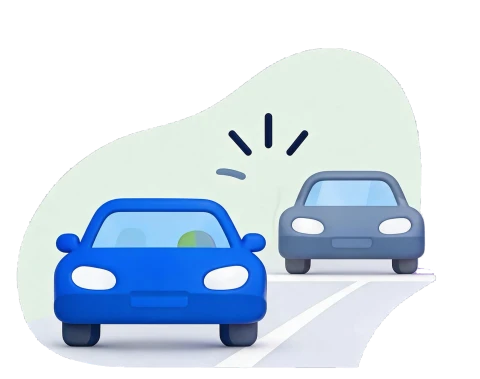
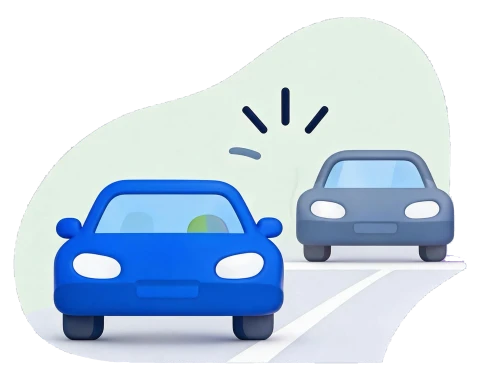
Öğretmen uygulaması yeni tasarım altyapısı: js/usta yönlendirici, ox üst çubuk, dört sekme; öğretmen çizimleri (araç, güzergâh, cüzdan)
- portal.js: öğretmen iş mantığı dışa açıldı (dersBaslat ayrı işlev), usta kendi telefonunda yeni yönlendiriciye sorulur
- ui.js: öğretmen simgeleri, sekmeCubugu öğretmen listesini alır, GORSEL_SURUM 3

diff --git a/js/portal.js b/js/portal.js
@@ -22,6 +22,7 @@ import { MUFREDAT } from './ogrenci.js?v=206';
 import * as TK from './takvim.js?v=206';
 import * as OGR from './ogren.js?v=206';
 import * as OX from './ogr/ekran.js?v=206';
+import * as UX from './usta/ekran.js?v=206';
 
 let egId = 'e1', egSekme = 'bugun';
 let ogId = null, ogSekme = (() => { try { return sessionStorage.getItem('sinyal-og-sekme') || 'durum'; } catch (x) { return 'durum'; } })();
@@ -33,29 +34,29 @@ const sekmeCubugu = (liste, secili, ad) => `<nav class="portal-sekme" aria-label
 const beceriGiris = () => `<p class="et">Bu dersin beceri puanı <small style="font-weight:400;color:var(--soluk)">1 zayıf · 5 sınava hazır</small></p><div class="beceri-giris">${BECERI.map(([b, ad]) => `<div class="beceri-sat"><span>${ad}</span><div class="secim">${[1, 2, 3, 4, 5].map(n => `<label><input type="radio" name="b-${b}" value="${n}"><span>${n}</span></label>`).join('')}</div></div>`).join('')}</div>`;
 // Takip formuna yazılacak konular (zorunlu alan): sıradaki ders için öneri işaretli gelir
 const konuGiris = (ks, no) => { const on = konuOner(ks.sinif, no, SINIFLAR[ks.sinif].direksiyon); return `<p class="et" style="margin-top:4px">Bu derste çalışılan konular <small style="font-weight:400;color:var(--soluk)">takip formuna yazılır</small></p><div class="secim konu-sec">${konuListesi(ks.sinif).map(([id, ad]) => `<label><input type="checkbox" name="konu" value="${id}" ${on.includes(id) ? 'checked' : ''}><span>${ad}</span></label>`).join('')}</div>`; };
-const konuOku = p => [...p.querySelectorAll('[name=konu]:checked')].map(x => x.value);
-const beceriOku = p => { const o = {}; BECERI.forEach(([b]) => { const v = p.querySelector(`[name="b-${b}"]:checked`); if (v) o[b] = +v.value; }); return Object.keys(o).length ? o : null; };
+export const konuOku = p => [...p.querySelectorAll('[name=konu]:checked')].map(x => x.value);
+export const beceriOku = p => { const o = {}; BECERI.forEach(([b]) => { const v = p.querySelector(`[name="b-${b}"]:checked`); if (v) o[b] = +v.value; }); return Object.keys(o).length ? o : null; };
 // Ders sonu: beceri puanı kaydedilir; kalma riski "yüksek"e çıkarsa müdüre haber gider
-function riskKontrol(ks, once) {
+export function riskKontrol(ks, once) {
   const r = risk(ks); if (!r || r.puan < 50 || (once && once.puan >= 50)) return;
   bildirimler([{ kim: 'mudur', metin: `${tamAd(ks)} için uygulama sınavı kalma riski yüksek (${r.puan}/100): ${r.nedenler.join('; ')}. Ek ders önermek için kursiyer dosyasını açın.`, tur: 'Sınav riski' }], 'Sınav riski yükseldi');
 }
 // Ders konumu: başlangıçta ve bitişte alınır; ekran açık kaldıkça 4 dakikada bir iz noktası düşer (web uygulaması arka planda konum alamaz)
 let izleyici = null;
-const konumOku = p => ({ enlem: +p.coords.latitude.toFixed(5), boylam: +p.coords.longitude.toFixed(5), dogruluk: Math.round(p.coords.accuracy) });
-function izBaslat(d) {
+export const konumOku = p => ({ enlem: +p.coords.latitude.toFixed(5), boylam: +p.coords.longitude.toFixed(5), dogruluk: Math.round(p.coords.accuracy) });
+export function izBaslat(d) {
   if (!navigator.geolocation || izleyici != null) return;
   let son = 0;
   izleyici = navigator.geolocation.watchPosition(p => { if (Date.now() - son < 4 * 60e3 || d.durum !== 'Planlandı') return; son = Date.now(); const k = konumOku(p); (d.iz = d.iz || []).push([new Date().toTimeString().slice(0, 5), k.enlem, k.boylam]); if (d.iz.length > 40) d.iz.shift(); kaydet(); }, () => { }, { maximumAge: 60e3 });
 }
-function izBitir(d) {
+export function izBitir(d) {
   if (izleyici != null && navigator.geolocation) navigator.geolocation.clearWatch(izleyici);
   izleyici = null;
   if (navigator.geolocation) navigator.geolocation.getCurrentPosition(p => { d.konumBit = konumOku(p); kaydet(); }, () => { d.konumBit = false; kaydet(); }, { timeout: 15000, maximumAge: 60e3 });
 }
 // Dersi bitirme: 3 adım (konular → değerlendirme → imzalar). Öğrenci yanında değilse imza WhatsApp'tan istenir.
 // Geçmiş günden kapanmamış ders de buradan kapatılır (başlangıç saati yoksa süre boş kalır, "sonradan kapatıldı" işaretlenir).
-function dersKapat(d) {
+export function dersKapat(d) {
   const ks = kursiyer(d.kursiyer), no = ks.direksiyon + 1, h = egitmen(d.egitmen), gecmis = d.tarih < gun(0);
   pencere({
     baslik: 'Dersi bitir', korumali: true,
@@ -107,8 +108,8 @@ function dersKapat(d) {
   });
 }
 // Ders iptali (öğretmen tarafı): ders silinir, öğrenciye ve kurs müdürüne nedeniyle bildirilir; boşalan saati müdür doldurur
-const IPTAL_NEDEN = [['ogrenci', 'Öğrenci gelemeyeceğini bildirdi'], ['arac', 'Araç arızalı'], ['hava', 'Hava koşulları uygun değil'], ['ben', 'Ben gelemiyorum'], ['diger', 'Diğer']];
-function dersIptal(d) {
+export const IPTAL_NEDEN = [['ogrenci', 'Öğrenci gelemeyeceğini bildirdi'], ['arac', 'Araç arızalı'], ['hava', 'Hava koşulları uygun değil'], ['ben', 'Ben gelemiyorum'], ['diger', 'Diğer']];
+export function dersIptal(d) {
   const ks = kursiyer(d.kursiyer), h = egitmen(d.egitmen);
   pencere({
     baslik: 'Ders iptal edilsin mi?',
@@ -129,7 +130,7 @@ function dersIptal(d) {
   });
 }
 // "Gelmedi" yanlışlıkla basılmasın: onay alınır, sonra öğrenciye ve müdüre haber gider
-function gelmediIsaretle(d) {
+export function gelmediIsaretle(d) {
   if (!d) return;
   if (dersKalanSaat(d) > 0) return bildir('Ders saati gelmeden “gelmedi” işaretlenemez', 'uyari');
   const ks = kursiyer(d.kursiyer), h = egitmen(d.egitmen);
@@ -145,7 +146,7 @@ function gelmediIsaretle(d) {
     },
   });
 }
-function dersDiger(d) {
+export function dersDiger(d) {
   const ks = kursiyer(d.kursiyer);
   pencere({
     baslik: tamAd(ks), icerik: `<div class="eg-menu">
@@ -162,6 +163,16 @@ function dersDiger(d) {
       });
     },
   });
+}
+// Dersi başlat: yalnız bugünkü ders, aynı anda tek ders; başlangıç saati ve konum kaydedilir (eski ve yeni öğretmen ekranı birlikte kullanır)
+export function dersBaslat(d, eg) {
+  if (!d) return;
+  if (d.tarih !== gun(0)) return bildir('Yalnız bugünkü ders başlatılabilir', 'uyari');
+  if (S.dersler.some(x => x !== d && x.egitmen === eg.id && x.tarih === gun(0) && x.durum === 'Planlandı' && x.bas)) return bildir('Önce başlattığın dersi bitir', 'uyari');
+  d.bas = new Date().toTimeString().slice(0, 5); d.basZaman = Date.now(); d.konum = null; islem('Dersi başlattı', tamAd(kursiyer(d.kursiyer)) + ' · ' + d.bas); kaydet(); yenile();
+  if (!navigator.geolocation) return bildir('Ders başladı; bu cihaz konum vermiyor', 'uyari');
+  izBaslat(d);
+  navigator.geolocation.getCurrentPosition(p => { d.konum = konumOku(p); kaydet(); bildir('Ders başladı; başlangıç saati ve konum kaydedildi'); yenile(); }, () => { d.konum = false; kaydet(); bildir('Ders başladı; süre kendiliğinden yazılacak'); yenile(); }, { timeout: 10000, maximumAge: 60000 });
 }
 const DURUM_TON = { 'Yapıldı': 'yesil', 'Gelmedi': 'kirmizi', 'İptal': 'notr' };
 // Günün saatine göre selam (öğretmen ve öğrenci ekranının başlığı)
@@ -227,7 +238,7 @@ const AV_RENK = ['#2f6fde', '#c2410c', '#0f8a5f', '#7a5cd6', '#b4233a', '#0e7490
 const avDaire = (k, cls = '') => k.foto ? `<img class="u-av ${cls}" src="${e(k.foto)}" alt="">` : `<span class="u-av ${cls}" style="--r:${AV_RENK[[...((k.ad || '') + (k.soyad || ''))].reduce((a, c) => a + c.charCodeAt(0), 0) % AV_RENK.length]}" aria-hidden="true">${e(((k.ad || '?')[0] + ((k.soyad || '')[0] || '')).toLocaleUpperCase('tr'))}</span>`;
 // sayfa üstü rengi: üst bölüm varsa telefonun durum çubuğu da lacivert olur
 const temaUst = koyu => { if (koyu) heroBoyutla(); if (koyu && window.matchMedia && matchMedia('(prefers-reduced-motion: reduce)').matches) document.querySelectorAll('svg.u-gece').forEach(g => { try { g.pauseAnimations(); } catch (x) { } }); document.body.classList.toggle('hero-acik', koyu); document.body.classList.toggle('hero-gunduz', koyu && gunduzMu()); const m = document.querySelector('meta[name="theme-color"]'); if (m) m.content = koyu ? (gunduzMu() ? '#174f99' : '#0b1830') : '#f2f2f7'; };
-const dersNo = (d, k) => dersSirasi(d, k) || k.direksiyon;
+export const dersNo = (d, k) => dersSirasi(d, k) || k.direksiyon;
 // Sıradaki (ya da sürmekte olan) ders: üst bölüme taşan büyük kart, tek ana düğme
 function egSiraKart(d) {
   const k = kursiyer(d.kursiyer); if (!k) return '';
@@ -252,7 +263,7 @@ function egSatir(d, siradaki) {
     <span class="u-satir-govde"><b>${e(tamAd(k))}</b><small>${acik ? no + '. ders' : no + ' ders'} · ${e(S0.ad)}${d.durum === 'Yapıldı' && d.sure != null ? ' · ' + d.sure + ' dk' + (d.sure < 40 ? ' (kısa)' : '') : ''}</small>${imzaBek ? `<small class="uyari">İmza bekleniyor · <button class="u-bag" data-imza-tekrar="${e(d.id)}">linki yeniden gönder</button></small>` : ''}</span>${sag}${acik && !gecmis ? `<button class="u-nokta" data-ders-diger="${e(d.id)}" aria-label="${e(tamAd(k))} için diğer işlemler">${ik('nokta')}</button>` : ''}</div>`;
 }
 // Öğrenci ayrıntısı (öğretmen): alttan açılan sayfa
-function egOgrAc(k) {
+export function egOgrAc(k) {
   const S0 = SINIFLAR[k.sinif], sd = sonrakiDers(k), dd = (k.dDeneme || []).slice(-1)[0], r = risk(k), tel = (k.tel || '').replace(/\s/g, '');
   const sat = (ikon, ton, b, s2) => `<div class="u-satir"><span class="u-ik ${ton}">${ik(ikon)}</span><span class="u-satir-govde"><b>${b}</b>${s2 ? `<small>${s2}</small>` : ''}</span></div>`;
   pencere({ baslik: 'Öğrenci', alt: true, icerik: `<div class="u-ogr-ust">${avDaire(k, 'buyuk')}<div><b>${e(tamAd(k))}</b><small>${e(S0.ad)} · ${e(k.asama)}</small></div></div>
@@ -281,9 +292,9 @@ function progAralik() {
   const [a1, b1] = [tarihOku(gunler[0]), tarihOku(gunler[6])];
   return { gunler, metin: a1.getMonth() === b1.getMonth() ? `${a1.getDate()}–${b1.getDate()} ${AY_U[b1.getMonth()]}` : `${a1.getDate()} ${AY_U[a1.getMonth()]} – ${b1.getDate()} ${AY_U[b1.getMonth()]}` };
 }
-const progDurum = d => d.durum === 'Planlandı' ? (d.tarih < gun(0) ? ['Kapanmadı', 'turuncu'] : d.bas ? ['Derste', 'mavi'] : ['Planlı', '']) : d.durum === 'Yapıldı' ? ['Yapıldı', 'yesil'] : d.durum === 'Gelmedi' ? ['Gelmedi', 'kirmizi'] : [d.durum, ''];
+export const progDurum = d => d.durum === 'Planlandı' ? (d.tarih < gun(0) ? ['Kapanmadı', 'turuncu'] : d.bas ? ['Derste', 'mavi'] : ['Planlı', '']) : d.durum === 'Yapıldı' ? ['Yapıldı', 'yesil'] : d.durum === 'Gelmedi' ? ['Gelmedi', 'kirmizi'] : [d.durum, ''];
 // Programı Excel'e: gösterilen dönemin dersleri (telefon ve kimlik bilgisi yok)
-async function progIndir(eg) {
+export async function progIndir(eg) {
   const { gunler, metin } = progAralik(), set = new Set(gunler);
   const l = S.dersler.filter(d => d.egitmen === eg.id && set.has(d.tarih)).sort((a, b) => (a.tarih + a.saat).localeCompare(b.tarih + b.saat));
   if (!l.length) return bildir('Bu dönemde ders yok', 'uyari');
@@ -307,6 +318,7 @@ export function egitmenPortal() {
   if (!eg) return { baslik: 'Öğretmen ekranı', alt: 'Telefondan kullanılan ekran', html: `<div class="portal portal-og"><div class="u-bos">${ik('kursiyer')}<b>${usta ? 'Hesabın bir öğretmen kaydına bağlı değil' : 'Henüz öğretmen yok'}</b><p>${usta ? 'Kurs müdürü Ayarlar › Kullanıcılar’dan seni yeniden davet etmeli.' : 'Filo › Öğretmenler’den öğretmen ekleyince ders ekranı burada görünür.'}</p></div></div>` };
   egId = eg.id;
   if (!EG_SEKME.some(x => x[0] === egSekme)) egSekme = 'bugun';
+  if (usta) { const y = UX.ciz(eg, { yenile, temaUst }); if (y) return y; }
   const benim = S.dersler.filter(d => d.egitmen === eg.id);
   const bugun = benim.filter(d => d.tarih === gun(0)).sort((a, b) => a.saat.localeCompare(b.saat));
   const kapanmamis = benim.filter(d => d.durum === 'Planlandı' && d.tarih < gun(0) && d.tarih >= gun(-60)).sort((a, b) => (a.tarih + a.saat).localeCompare(b.tarih + b.saat));
@@ -367,6 +379,7 @@ export function egitmenPortal() {
       ${hero}<div class="portal portal-og ${hero ? 'hero-alti' : ''}">${govde}</div>
       <nav class="og-sekme" aria-label="Öğretmen ekranı">${EG_SEKME.map(([kk, t, i]) => `<button data-egs="${kk}" class="${kk === egSekme ? 'secili' : ''}" ${kk === egSekme ? 'aria-current="page"' : ''}>${ik(i)}<span>${t}${kk === 'bugun' && kapanmamis.length ? ' <em>' + kapanmamis.length + '</em>' : ''}</span></button>`).join('')}</nav>`,
     baglan(k) {
+      document.body.classList.remove('ox-modu', 'ox-tam-acik');
       if (usta) temaUst(!!hero);
       k.addEventListener('change', ev => { if (ev.target.matches('[data-eg]')) { egId = ev.target.value; yenile(); } });
       k.addEventListener('input', ev => { if (ev.target.matches('[data-ogr-ara]')) { egAra = ev.target.value; araSuz(k); } });
@@ -379,16 +392,7 @@ export function egitmenPortal() {
         const pg = t.closest('[data-prog-git]'); if (pg) { egProg.kay = +pg.dataset.progGit ? egProg.kay + +pg.dataset.progGit : 0; return yenile(); }
         if (t.closest('[data-prog-indir]')) return progIndir(eg);
         if (t.closest('[data-ara-sil]')) { egAra = ''; const i = k.querySelector('[data-ogr-ara]'); i.value = ''; araSuz(k); return i.focus(); }
-        const db = t.closest('[data-ders-basla]'); if (db) {
-          const d = S.dersler.find(x => x.id === db.dataset.dersBasla);
-          if (d.tarih !== gun(0)) return bildir('Yalnız bugünkü ders başlatılabilir', 'uyari');
-          if (benim.some(x => x !== d && x.tarih === gun(0) && x.durum === 'Planlandı' && x.bas)) return bildir('Önce başlattığın dersi bitir', 'uyari');
-          d.bas = new Date().toTimeString().slice(0, 5); d.basZaman = Date.now(); d.konum = null; islem('Dersi başlattı', tamAd(kursiyer(d.kursiyer)) + ' · ' + d.bas); kaydet(); yenile();
-          if (!navigator.geolocation) return bildir('Ders başladı; bu cihaz konum vermiyor', 'uyari');
-          izBaslat(d);
-          navigator.geolocation.getCurrentPosition(p => { d.konum = konumOku(p); kaydet(); bildir('Ders başladı; başlangıç saati ve konum kaydedildi'); yenile(); }, () => { d.konum = false; kaydet(); bildir('Ders başladı; süre kendiliğinden yazılacak'); yenile(); }, { timeout: 10000, maximumAge: 60000 });
-          return;
-        }
+        const db = t.closest('[data-ders-basla]'); if (db) return dersBaslat(S.dersler.find(x => x.id === db.dataset.dersBasla), eg);
         const y = t.closest('[data-yapildi]'); if (y) return dersKapat(S.dersler.find(x => x.id === y.dataset.yapildi));
         const it = t.closest('[data-imza-tekrar]'); if (it) { const d = S.dersler.find(x => x.id === it.dataset.imzaTekrar); import('./imza.js?v=206').then(m => m.imzaIste('ders', kursiyer(d.kursiyer), [d.id])); return; }
         const g = t.closest('[data-gelmedi]'); if (g) return gelmediIsaretle(S.dersler.find(x => x.id === g.dataset.gelmedi));

diff --git a/js/usta/ekran.js b/js/usta/ekran.js
@@ -1,0 +1,89 @@
+// Öğretmen (usta öğretici) uygulaması yönlendiricisi (yeni tasarım). portal.js egitmenPortal() öğretmenin kendi telefonunda buraya sorar;
+// bir ekran modülü null dönerse eski düzen gösterilir. Tasarım dili öğrenci uygulamasıyla ortak: js/ogr/ui.js.
+//
+// Ekran modülleri: ekran(ctx) → { html, baglan?(kap), tam?: true, rozet? } | null
+//   tam: true → tam ekran akış (üst çubuk ve alt sekmeler gizli; örn. "Dersi bitir" adımları)
+// ctx: { eg, sekme, alt, benim, bugun, kapanmamis, siradaki, ar, ogrenciler, yenile(kaydir), git(sekme, alt?), altAc(alt), P }
+//   P: portal.js'teki öğretmen iş mantığı (dersBaslat, dersKapat, dersIptal, gelmediIsaretle, dersDiger, egOgrAc, progIndir, IPTAL_NEDEN,
+//      konuOku, beceriOku, dersNo, progDurum, riskKontrol, izBaslat, izBitir, konumOku). Mantığı kopyalama, buradan çağır.
+//
+// Ortak öznitelikler (her ekranda çalışır, modülün ayrıca bağlamasına gerek yok):
+//   data-egs="<sekme>"             alt sekme (bugun | hafta | kursiyer | kazanc); her zaman o sekmenin başına gider
+//   data-ux-git="<sekme>[:<alt>]"  başka sekmenin alt ekranına git (örn. "kursiyer:ogr:k12", "bugun:arac")
+//   data-ux-alt="<alt>"            bu sekmede alt ekran aç; data-ux-alt="" sekmenin başına döner
+//   data-ders-basla="<ders-id>"    dersi başlat;  data-yapildi="<id>" dersi bitir akışı;  data-gelmedi="<id>" gelmedi onayı
+//   data-ders-diger="<id>"         ders menüsü (ara, not, iptal, gelmedi);  data-ders-iptal="<id>" iptal
+//   data-imza-tekrar="<id>"        imza linkini yeniden gönder;  data-ogr-ac="<öğrenci-id>" öğrenci ayrıntısı;  data-prog-indir Excel
+import { S, gun, kursiyer, tamAd } from '../veri.js?v=206';
+import { sekmeCubugu, USTA_SEKMELER } from '../ogr/ui.js?v=206';
+import * as P from '../portal.js?v=206';
+import * as BGN from './bugun.js?v=206';
+import * as PRG from './program.js?v=206';
+import * as OGR from './ogrenciler.js?v=206';
+import * as KZN from './kazanc.js?v=206';
+import * as DRS from './ders.js?v=206';
+import * as ARC from './arac.js?v=206';
+
+const oku = (a, d) => { try { return sessionStorage.getItem(a) || d; } catch (x) { return d; } };
+const yaz = (a, v) => { try { if (v) sessionStorage.setItem(a, v); else sessionStorage.removeItem(a); } catch (x) { } };
+let sekme = oku('sinyal-eg-sekme', 'bugun'), alt = oku('sinyal-eg-alt', '');
+if (!USTA_SEKMELER.some(x => x[0] === sekme)) sekme = 'bugun';
+export const altAc = a => { alt = a || ''; yaz('sinyal-eg-alt', alt); };
+const sekmeAc = s => { sekme = s; yaz('sinyal-eg-sekme', s); };
+const MODUL = { bugun: BGN, hafta: PRG, kursiyer: OGR, kazanc: KZN };
+const ARAC_ALT = /^(arac|guzergah|hesap)(:|$)/;
+
+function veri(eg) {
+  const benim = S.dersler.filter(d => d.egitmen === eg.id);
+  const bugun = benim.filter(d => d.tarih === gun(0)).sort((a, b) => a.saat.localeCompare(b.saat));
+  const kapanmamis = benim.filter(d => d.durum === 'Planlandı' && d.tarih < gun(0) && d.tarih >= gun(-60)).sort((a, b) => (a.tarih + a.saat).localeCompare(b.tarih + b.saat));
+  const ASIRA = { Direksiyon: 0, 'Sınav': 1, Teorik: 2, Evrak: 3, 'Kayıt': 4 };
+  const ogrenciler = S.kursiyerler.filter(k => k.egitmen === eg.id && k.asama !== 'Ehliyet' && !k.kapali).sort((a, b) => (ASIRA[a.asama] ?? 9) - (ASIRA[b.asama] ?? 9) || tamAd(a).localeCompare(tamAd(b), 'tr'));
+  const siradaki = bugun.find(d => d.durum === 'Planlandı' && d.bas) || bugun.find(d => d.durum === 'Planlandı');
+  const ar = S.araclar.find(a => a.egitmen === eg.id);
+  return { benim, bugun, kapanmamis, ogrenciler, siradaki, ar };
+}
+
+function sec(ctx) {
+  if (DRS.aktif && DRS.aktif(ctx)) return DRS.ekran(ctx);
+  if (ARAC_ALT.test(ctx.alt)) return ARC.altEkran(ctx.alt, ctx);
+  const m = MODUL[ctx.sekme]; return m && m.ekran ? m.ekran(ctx) : null;
+}
+const bul = id => S.dersler.find(x => x.id === id);
+
+export function ciz(eg, dis) {
+  const ctx = {
+    eg, sekme, alt, P, ...veri(eg), yenile: dis.yenile,
+    altAc: a => { altAc(a); dis.yenile(true); },
+    git: (s, a) => { const deg = s !== sekme; sekmeAc(s); altAc(a !== undefined ? a : ''); if (deg || a === undefined) { const m = MODUL[s]; if (m && m.sifirla) m.sifirla(); } dis.yenile(true); },
+  };
+  let y = null;
+  try { y = sec(ctx); } catch (x) { console.error(x); y = null; }
+  if (!y) return null;
+  const rozet = { ...(ctx.kapanmamis.length ? { bugun: ctx.kapanmamis.length } : {}), ...(y.rozet || {}) };
+  return {
+    baslik: (USTA_SEKMELER.find(x => x[0] === sekme) || [])[1] || 'Bugün', alt: 'Öğretmen ekranı',
+    html: `<div class="ox ox-usta${y.tam ? ' ox-tam' : ''}" data-ux-sekme="${sekme}">${y.html}</div>${y.tam ? '' : sekmeCubugu(sekme, rozet, USTA_SEKMELER, 'data-egs')}`,
+    baglan(kap) {
+      document.body.classList.add('ox-modu');
+      document.body.classList.toggle('ox-tam-acik', !!y.tam);
+      document.body.classList.remove('hero-acik', 'hero-gunduz');
+      const m = document.querySelector('meta[name="theme-color"]'); if (m) m.content = y.tam ? '#ffffff' : '#f7f8fa';
+      kap.addEventListener('click', ev => {
+        const t = ev.target;
+        const s = t.closest('[data-egs]'); if (s) return ctx.git(s.dataset.egs);
+        const g = t.closest('[data-ux-git]'); if (g) { const [sk, ...a] = g.dataset.uxGit.split(':'); return ctx.git(sk, a.join(':')); }
+        const al = t.closest('[data-ux-alt]'); if (al) return ctx.altAc(al.dataset.uxAlt);
+        const db = t.closest('[data-ders-basla]'); if (db) return P.dersBaslat(bul(db.dataset.dersBasla), eg);
+        const yp = t.closest('[data-yapildi]'); if (yp) { const d = bul(yp.dataset.yapildi); return DRS.bitirAc ? DRS.bitirAc(d, ctx) : P.dersKapat(d); }
+        const gm = t.closest('[data-gelmedi]'); if (gm) { const d = bul(gm.dataset.gelmedi); return DRS.gelmedi ? DRS.gelmedi(d, ctx) : P.gelmediIsaretle(d); }
+        const dg = t.closest('[data-ders-diger]'); if (dg) { const d = bul(dg.dataset.dersDiger); return DRS.menu ? DRS.menu(d, ctx) : P.dersDiger(d); }
+        const ip = t.closest('[data-ders-iptal]'); if (ip) { const d = bul(ip.dataset.dersIptal); return DRS.iptal ? DRS.iptal(d, ctx) : P.dersIptal(d); }
+        const it = t.closest('[data-imza-tekrar]'); if (it) { const d = bul(it.dataset.imzaTekrar); return import('../imza.js?v=206').then(m => m.imzaIste('ders', kursiyer(d.kursiyer), [d.id])); }
+        const oa = t.closest('[data-ogr-ac]'); if (oa) return ctx.git('kursiyer', 'ogr:' + oa.dataset.ogrAc);
+        if (t.closest('[data-prog-indir]')) return P.progIndir(eg);
+      });
+      if (y.baglan) { try { y.baglan(kap); } catch (x) { console.error(x); } }
+    },
+  };
+}

diff --git a/js/ogr/ui.js b/js/ogr/ui.js
@@ -72,6 +72,15 @@ const P = {
   ilkyardim: '<rect x="3.5" y="7" width="17" height="12.5" rx="2.4"/><path d="M9 7V5.3A1.3 1.3 0 0 1 10.3 4h3.4A1.3 1.3 0 0 1 15 5.3V7M12 10.5v5.5M9.2 13.2h5.6"/>',
   trafik: '<rect x="8" y="2.5" width="8" height="15" rx="3"/><circle cx="12" cy="6.2" r="1.2"/><circle cx="12" cy="10" r="1.2"/><circle cx="12" cy="13.8" r="1.2"/><path d="M12 17.5v4"/>',
   piston: '<rect x="6.5" y="3.5" width="11" height="7.5" rx="1.6"/><path d="M6.5 6.2h11M10 11l-1.2 5.3M14 11l1.2 5.3"/><circle cx="12" cy="18.3" r="2.4"/>',
+  kisiler: '<circle cx="9" cy="8.2" r="3.4"/><path d="M2.8 19.5c.6-3.4 3-5.3 6.2-5.3s5.6 1.9 6.2 5.3"/><circle cx="16.8" cy="8.8" r="2.8"/><path d="M16.2 14.3c2.6.2 4.4 1.9 5 5.2"/>',
+  cuzdan: '<rect x="3" y="6" width="18" height="13.5" rx="2.8"/><path d="M3 10h18M15.5 14.6h2.5"/><path d="M6 6V5.2A1.7 1.7 0 0 1 8 3.5l9.5 1.6" />',
+  nokta3: '<path d="M6 12h.01M12 12h.01M18 12h.01" stroke-width="3"/>',
+  konum: '<path d="M12 21s-6.5-5.7-6.5-11a6.5 6.5 0 0 1 13 0c0 5.3-6.5 11-6.5 11z"/><circle cx="12" cy="10" r="2.4"/>',
+  imza: '<path d="M3.5 17.5c2.5-3 4.5-9 6.5-9s-1 8 1 8 3-4 4.5-4 .5 3 2 3 2-1 3-2"/><path d="M3.5 20.5h17"/>',
+  kalem: '<path d="M4 20l1-4.2L15.6 5.2a1.9 1.9 0 0 1 2.7 0l.5.5a1.9 1.9 0 0 1 0 2.7L8.2 19 4 20z"/><path d="M13.8 7l3.2 3.2"/>',
+  oynatDaire: '<circle cx="12" cy="12" r="8.5"/><path d="M10.2 8.6v6.8l5.4-3.4z"/>',
+  durdur: '<rect x="6.5" y="6.5" width="11" height="11" rx="2"/>',
+  ayrinti: '<path d="M4 6h16M4 12h16M4 18h10"/>',
   kalp: '<path d="M12 20s-7.5-4.5-7.5-10.2A4.3 4.3 0 0 1 12 7a4.3 4.3 0 0 1 7.5 2.8C19.5 15.5 12 20 12 20z"/>',
   wp: '<path d="M20.5 11.6a8.4 8.4 0 0 1-12.3 7.5L3.5 20.5l1.4-4.5A8.4 8.4 0 1 1 20.5 11.6z"/><path d="M9 8.8c0 3 2.3 5.6 5.5 6.2l1-1.4-1.6-1-1 .7a4 4 0 0 1-2.2-2.2l.7-1-1-1.6z"/>',
   cikis: '<path d="M14.5 4.5H18a1.5 1.5 0 0 1 1.5 1.5v12a1.5 1.5 0 0 1-1.5 1.5h-3.5M10 16.5 5.5 12 10 7.5M5.5 12h10"/>',
@@ -96,7 +105,9 @@ export function ustCubuk({ logo, kurs, ad, foto }) {
 
 /* ---------- alt sekme çubuğu ---------- */
 export const SEKMELER = [['durum', 'Ana sayfa', 'ev'], ['ders', 'Derslerim', 'takvim'], ['sinav', 'Öğren', 'kitap'], ['odeme', 'Ödeme', 'kart'], ['evrak', 'Belgeler', 'belge']];
-export const sekmeCubugu = (secili, rozet = {}) => `<nav class="ox-sekme" aria-label="Öğrenci uygulaması">${SEKMELER.map(([k, t, i]) => `<button type="button" data-ogs="${k}" class="${k === secili ? 'secili' : ''}" ${k === secili ? 'aria-current="page"' : ''}><span class="ox-sekme-ik">${oi(i)}${rozet[k] ? `<em>${rozet[k]}</em>` : ''}</span><span>${t}</span></button>`).join('')}</nav>`;
+export const USTA_SEKMELER = [['bugun', 'Bugün', 'ev'], ['hafta', 'Program', 'takvim'], ['kursiyer', 'Öğrenciler', 'kisiler'], ['kazanc', 'Kazancım', 'cuzdan']];
+// sekmeCubugu(secili, rozet, liste, öznitelik): öğrenci için data-ogs, öğretmen için data-egs
+export const sekmeCubugu = (secili, rozet = {}, liste = SEKMELER, attr = 'data-ogs') => `<nav class="ox-sekme" aria-label="${liste === SEKMELER ? 'Öğrenci' : 'Öğretmen'} uygulaması">${liste.map(([k, t, i]) => `<button type="button" ${attr}="${k}" class="${k === secili ? 'secili' : ''}" ${k === secili ? 'aria-current="page"' : ''}><span class="ox-sekme-ik">${oi(i)}${rozet[k] ? (rozet[k] === true ? '<em class="nokta"></em>' : `<em>${rozet[k]}</em>`) : ''}</span><span>${t}</span></button>`).join('')}</nav>`;
 
 /* ---------- sayfa iskeleti ---------- */
 // sayfa başlığı: büyük başlık, altında tek satır açıklama; sağda (isteğe bağlı) mavi sayaç ya da bağlantı
@@ -116,7 +127,7 @@ export function heroKart({ ust = '', baslik = '', alt = '', meta = '', gorsel: g
 // çizim: img/ogr/<ad>.webp — boyutu CSS'te sabit, yüklenirken yer kaplar (kayma olmaz)
 // GORSEL_SURUM: çizimler değişince artır (servis çalışanı sürüm ekli dosyayı önbellekten verir). Ek bilerek "?${'v'}=" diye yazılır:
 // sw.js, içindeki sürüm ekleri uygulama sürümüyle uyuşmayan JS dosyasını önbelleğe almaz.
-const GORSEL_SURUM = 2;
+const GORSEL_SURUM = 3;
 export const gorsel = (ad, alt = '', cls = '') => `<img class="ox-gorsel ${cls}" src="img/ogr/${ad}.webp?${'v'}=${GORSEL_SURUM}" alt="${esc(alt)}" decoding="async" draggable="false">`;
 
 /* ---------- düğmeler ---------- */
@@ -180,6 +191,11 @@ body.ox-modu{--ox-mavi:#0a66f2;--ox-mavi-bas:#0052cc;--ox-mavi-acik:#e9f1fe;--ox
   background:var(--ox-zemin);color:var(--ox-metin);font-family:var(--ox-yazi);-webkit-font-smoothing:antialiased;-webkit-tap-highlight-color:transparent}
 body.ox-modu .ogr-kabuk{background:var(--ox-zemin);min-height:100vh}
 body.ox-modu .ogr-kabuk>.app-ust{display:none}
+/* öğretmen kabuğu: eski üst çubuk ve kenar boşlukları yeni tasarımda gizli */
+body.ox-modu.usta-modu .ana>.app-ust{display:none}
+body.ox-modu.usta-modu .icerik{padding:0!important;max-width:none!important;margin:0!important;background:var(--ox-zemin)}
+body.ox-modu.usta-modu .ana{background:var(--ox-zemin)}
+body:not(.ox-modu) .ana>.ox-ust{display:none}
 .ox,.ox *{box-sizing:border-box}
 .ox{font-family:var(--ox-yazi);color:var(--ox-metin);font-size:15px;line-height:1.4;letter-spacing:-.005em;max-width:560px;margin:0 auto;padding:0 16px calc(104px + env(safe-area-inset-bottom))}
 :where(.ox,.ox-akis) :where(button){font:inherit;color:inherit;background:none;border:0;padding:0;margin:0;cursor:pointer;text-align:inherit;-webkit-appearance:none;appearance:none;min-height:0;box-shadow:none}
@@ -214,6 +230,7 @@ body.ox-tam-acik .ox-ust{display:none!important}
 .ox-sekme button.secili{color:var(--ox-mavi);font-weight:600}
 .ox-sekme button.secili .ox-sekme-ik{background:var(--ox-mavi-orta)}
 .ox-sekme button.secili .ox-i{stroke-width:2.05}
+.ox-sekme em.nokta{min-width:0;width:10px;height:10px;padding:0;top:2px;right:12px;background:var(--ox-turuncu)}
 .ox-sekme em{position:absolute;top:0;right:8px;min-width:17px;height:17px;padding:0 4px;border-radius:999px;background:var(--ox-kirmizi);color:#fff;font:600 10.5px/17px var(--ox-yazi);font-style:normal;text-align:center;box-shadow:0 0 0 2px #fff}
 @media (min-width:760px){.ox-sekme{left:50%;right:auto;transform:translateX(-50%);bottom:14px;width:500px;border:1px solid var(--ox-cizgi);border-radius:20px;box-shadow:0 14px 34px -16px rgba(16,24,40,.3);padding-bottom:6px}}
 

diff --git a/js/app.js b/js/app.js
@@ -115,7 +115,7 @@ function iskelet() {
       <div class="yan-alt"><b>${e(oturum.kullanici.ad)}</b><span>${ROL_AD[oturum.kullanici.rol]}</span>${S.kurs.demoNumara ? `<span style="display:block;margin-top:4px;font-size:12px;opacity:.85">Mesajlar → ${e(S.kurs.demoNumara)}</span>` : ''}<button class="dg dg-cizgi dg-kucuk" style="margin-top:8px;width:100%;background:transparent;color:#fff;border-color:#fff" data-cikis>${oturum.kullanici.bulut ? 'Çıkış yap' : 'Kullanıcı değiştir'}</button></div>
     </div></aside>
     <div class="ana">
-      ${oturum.kullanici.rol === 'usta' ? `<header class="app-ust">${APP_LOGO}<span class="app-ust-ad"><b>${e(S.kurs.ad)}</b>${oturum.kullanici.bulut ? '<span id="bulut-durum" class="bulut-durum" role="status"></span>' : '<small>Öğretmen</small>'}</span><h1 id="ust-baslik" class="gizli-et">Öğretmen ekranı</h1><small id="ust-alt" hidden></small><button type="button" class="app-profil" data-hesap aria-label="Hesabım: ${e(oturum.kullanici.ad)}">${basHarf(oturum.kullanici.ad)}</button></header>` : `<header class="ust">
+      ${oturum.kullanici.rol === 'usta' ? `${(() => { const eg = S.egitmenler.find(x => x.id === oturum.kullanici.usta); return OXU.ustCubuk({ logo: APP_LOGO, kurs: S.kurs.ad, ad: (eg && eg.ad) || oturum.kullanici.ad, foto: eg && eg.foto }); })()}<header class="app-ust">${APP_LOGO}<span class="app-ust-ad"><b>${e(S.kurs.ad)}</b>${oturum.kullanici.bulut ? '<span id="bulut-durum" class="bulut-durum" role="status"></span>' : '<small>Öğretmen</small>'}</span><h1 id="ust-baslik" class="gizli-et">Öğretmen ekranı</h1><small id="ust-alt" hidden></small><button type="button" class="app-profil" data-hesap aria-label="Hesabım: ${e(oturum.kullanici.ad)}">${basHarf(oturum.kullanici.ad)}</button></header>` : `<header class="ust">
         <button class="dg-ikon mobil-ust-sol" data-yan aria-label="Menüyü aç">${ik('menu')}</button>
         <div class="ust-baslik"><small id="ust-alt">${bugunMetni()}</small>${oturum.kullanici.bulut ? '<span id="bulut-durum" class="bulut-durum" role="status"></span>' : ''}<h1 id="ust-baslik">Genel bakış</h1></div>
         <a class="dg dg-hafif portal-geri" href="#/genel">← Panele dön</a>

diff --git a/js/usta/ders.js b/js/usta/ders.js
@@ -1,0 +1,3 @@
+// Ders akışı (yeni tasarım): henüz yazılmadı → eski pencereler
+export const aktif = ctx => false;
+export const ekran = ctx => null;

diff --git a/js/usta/bugun.js b/js/usta/bugun.js
@@ -1,0 +1,3 @@
+// Yeni tasarım: henüz yazılmadı → eski düzen gösterilir
+export const ekran = ctx => null;
+export const sifirla = () => {};

diff --git a/js/usta/kazanc.js b/js/usta/kazanc.js
@@ -1,0 +1,3 @@
+// Yeni tasarım: henüz yazılmadı → eski düzen gösterilir
+export const ekran = ctx => null;
+export const sifirla = () => {};

diff --git a/js/usta/ogrenciler.js b/js/usta/ogrenciler.js
@@ -1,0 +1,3 @@
+// Yeni tasarım: henüz yazılmadı → eski düzen gösterilir
+export const ekran = ctx => null;
+export const sifirla = () => {};

diff --git a/js/usta/program.js b/js/usta/program.js
@@ -1,0 +1,3 @@
+// Yeni tasarım: henüz yazılmadı → eski düzen gösterilir
+export const ekran = ctx => null;
+export const sifirla = () => {};

diff --git a/js/usta/arac.js b/js/usta/arac.js
@@ -1,0 +1,2 @@
+// Aracım, sınav güzergâhları, hesabım (yeni tasarım): henüz yazılmadı
+export const altEkran = (ad, ctx) => null;
